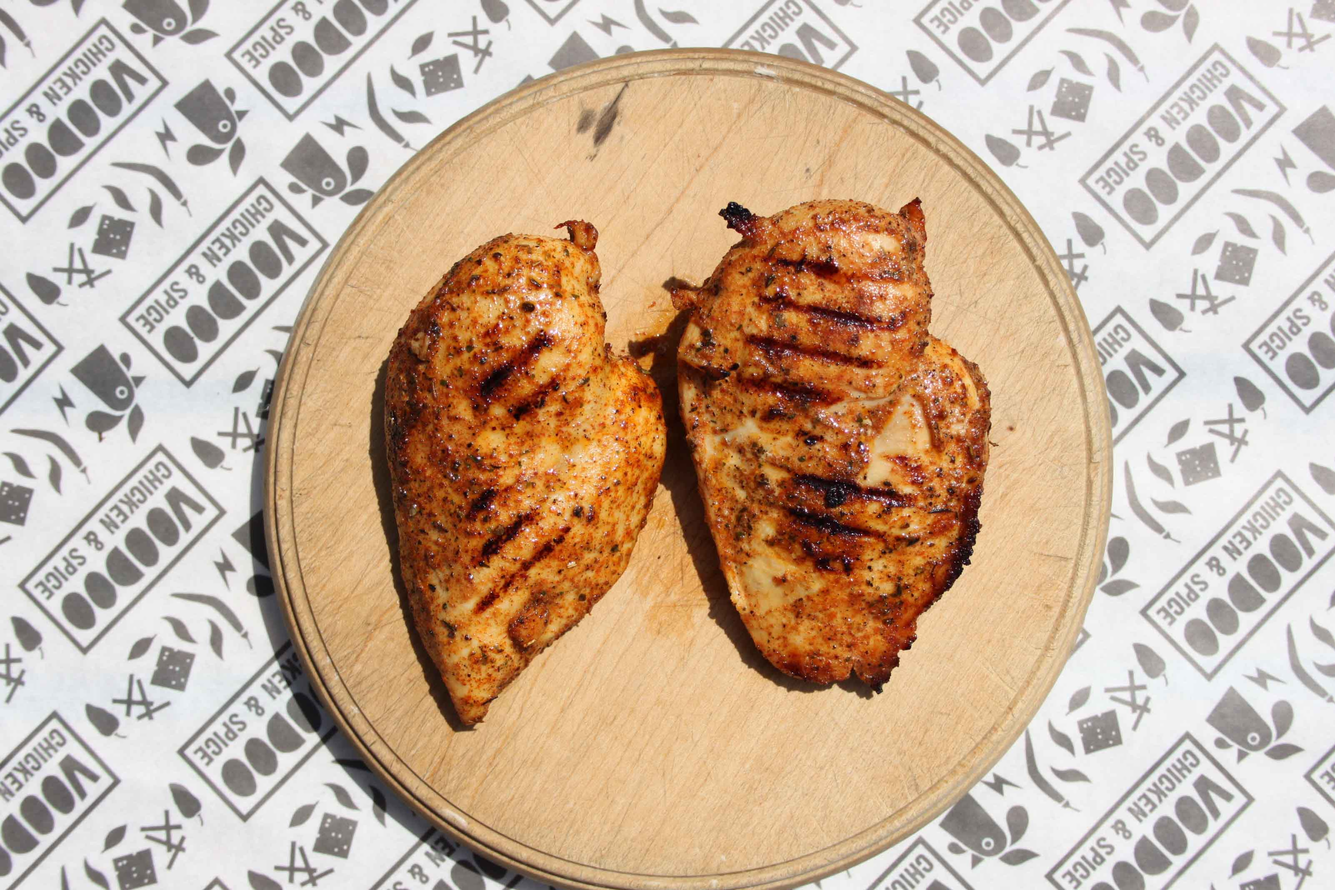
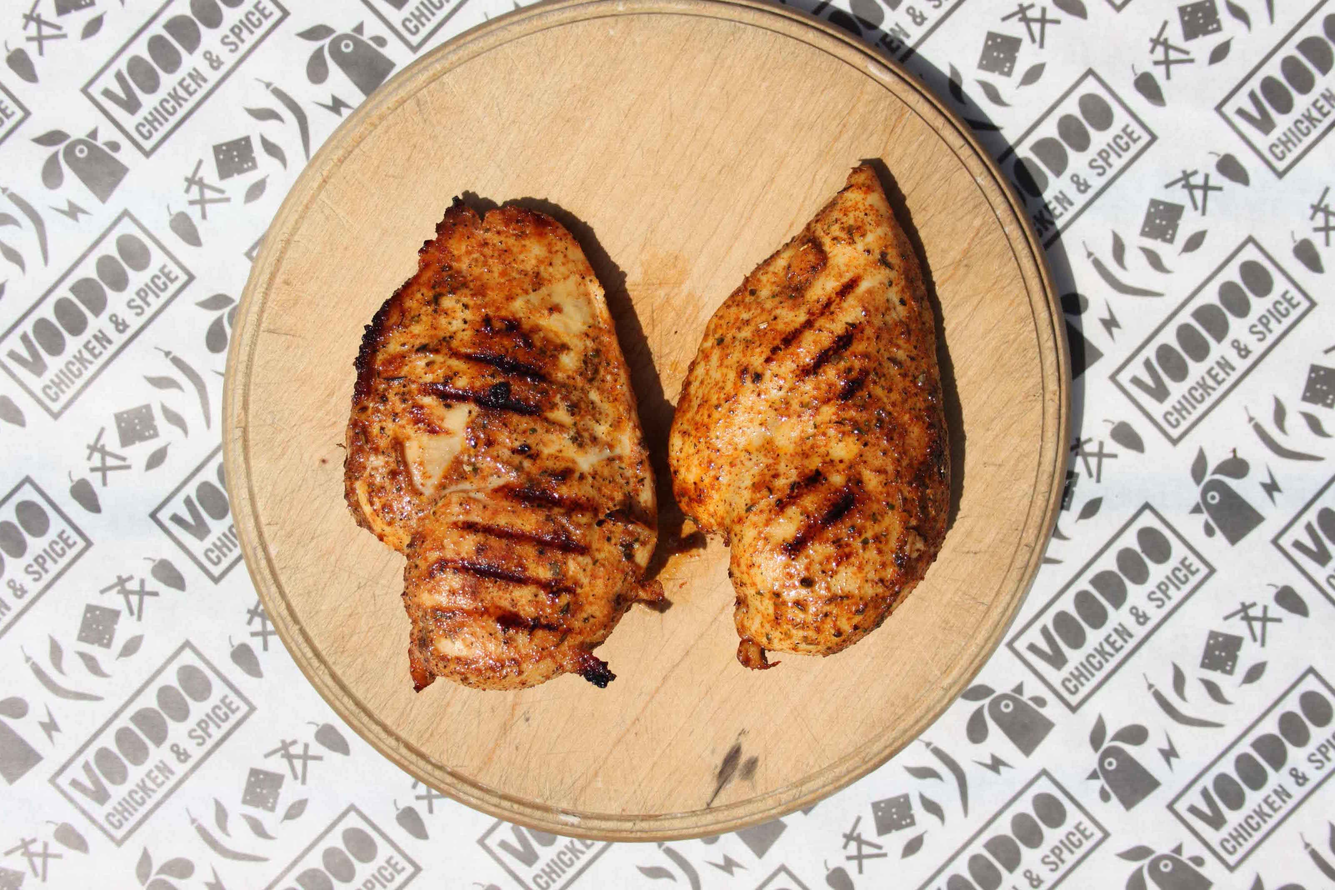
Update

diff --git a/firstheat.html b/firstheat.html
@@ -43,7 +43,7 @@
             <li>
                 <img src="images/IMG_1190.jpg">
                 <div class="caption left-align dirtyfont">
-                    <h3>Mama's secret recipe Habanero chilli jam</h3>
+                    <h3>Mama's Habanero chilli jam</h3>
                     <h5 class="light grey-text text-lighten-3"></h5>
                 </div>
             </li>
@@ -67,13 +67,13 @@
                 <li>
                     <img src="images/IMG_1182.jpg">
                     <div class="caption center-align dirtyfont">
-                        <h3>Authentic Cajun Spices</h3>
+                        <h3>Grilled Fresh to Order</h3>
                     </div>
                 </li>
                 <li>
                     <img src="images/IMG_1142.jpg">
                     <div class="caption center-align dirtyfont">
-                        <h3>Grilled Fresh to Order</h3>
+                        <h3>Authentic Cajun Spices</h3>
                     </div>
                 </li>
             </ul>
@@ -86,7 +86,7 @@
                     <h2 class="header center dirtyfont">Menu</h2>
                     <div class="row center">
                         <h5 class="header col s12">Chicken Breast Sandwich</h5>
-                        <p class="col s6 offset-s3">Succulent Chicken breast fillet marinated in Cajun spices, hot Habanero chilli jam, cheese, fresh slaw, all brought together in an artisan cheese topped bun<br><br>+ Add Blackened Shrimp</p>
+                        <p class="col s6 offset-s3">Succulent Chicken breast fillet marinated in Cajun seasoning, Habanero chilli jam, cheese, fresh slaw, all brought together in an artisan cheese topped bun<br><br>+ Add Blackened Shrimp</p>
                         <h5 class="header col s12">Chicken Breast Box</h5>
                         <p class="col s6 offset-s3">No bread and with fries<br><br>+ Add Blackened Shrimp</p>
 
@@ -115,7 +115,7 @@
             <div class="slider">
                 <ul class="slides">
                     <li>
-                        <img src="images/IMG_1076.jpg">
+                        <img src="images/IMG_1076%20copy.jpg">
                         <div class="caption center-align dirtyfont">
                             <h3>British Chicken</h3>
                         </div>
@@ -161,7 +161,7 @@
                                 <p><!--Not long ago Nando’s was the only thing that sprang to mind when ‘spicy chicken’ was done in Britain. At Voodoo Chicken we want to shake things up a bit and start doing things a little differently.
                                 <br><br>
                                 I loved Nando’s. Growing up next to their first branch, I considered a trip there as the biggest treat imaginable. When our Portuguese family friends joined they’d charm the waiters in their native tongue and receive secret off-menu treats in return. It was so exciting and I still have crystal clear memories of it today. It brought family, friends, and even staff together. But as we grew up, so did Nando’s, and gradually we saw our beloved family outing lose its local charm and turn into an easy clean, fast in, fast out experience. So I asked myself, why can’t I bring back the destination that we loved and the cherished feelings it created?-->
-                                    Rory started Voodoo Chicken to take people on a taste journey and to remind people what’s good about life.
+                                    Rory started Voodoo Chicken to take people on a taste journey, and to remind people what’s good about life.
                                     <br><br>
                                     Rory previously tried to realise this vision through technology, creating a video messaging app that brought friends together even when they’re apart. Before this he created a geo-location app that encouraged friends to meet up in person.
                                     <br><br>
@@ -193,7 +193,7 @@
                         </div>
                     </li>
                     <li>
-                        <img src="images/IMG_1203%20copy.jpg">
+                        <img src="images/IMG_1203%20copy%202.jpg">
                         <div class="caption center-align dirtyfont">
                             <h3>Grilled not Fried</h3>
                         </div>
@@ -236,7 +236,7 @@
                             </div>-->
                 
                 
-                <div id="instafeed"></div>
+                <!--<div id="instafeed"></div>-->
                 
                 </div>
             </div>
